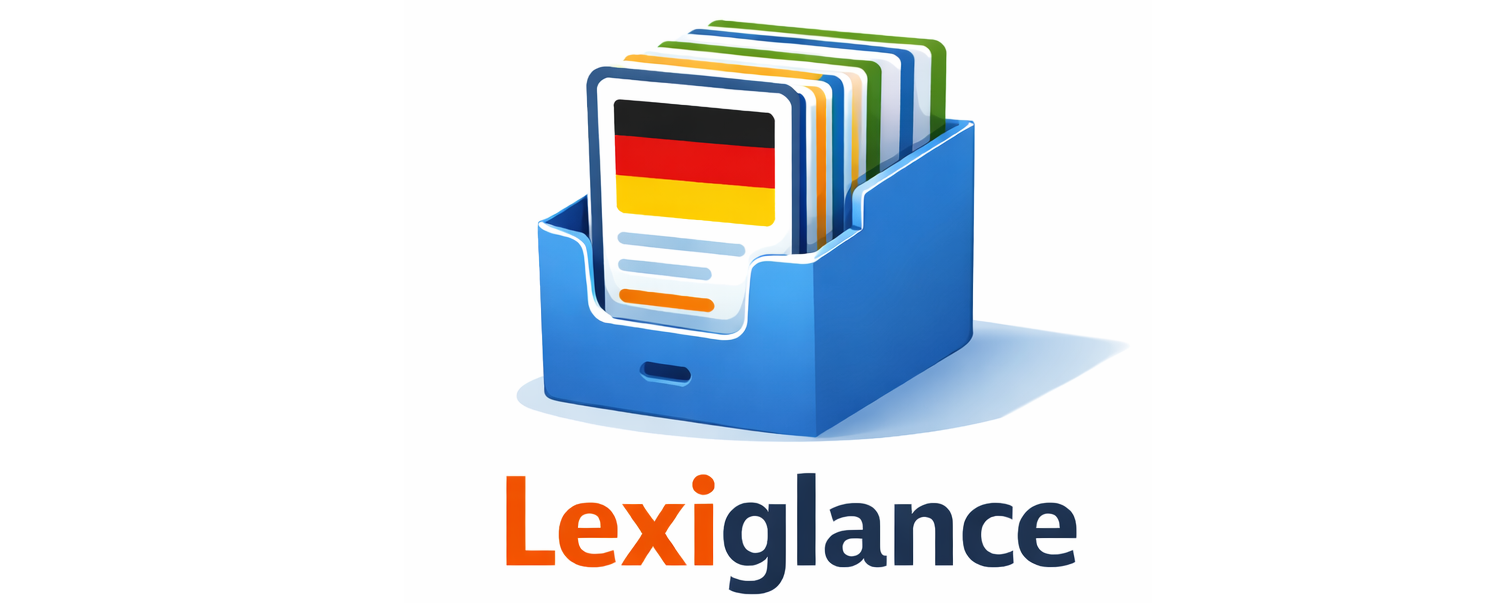
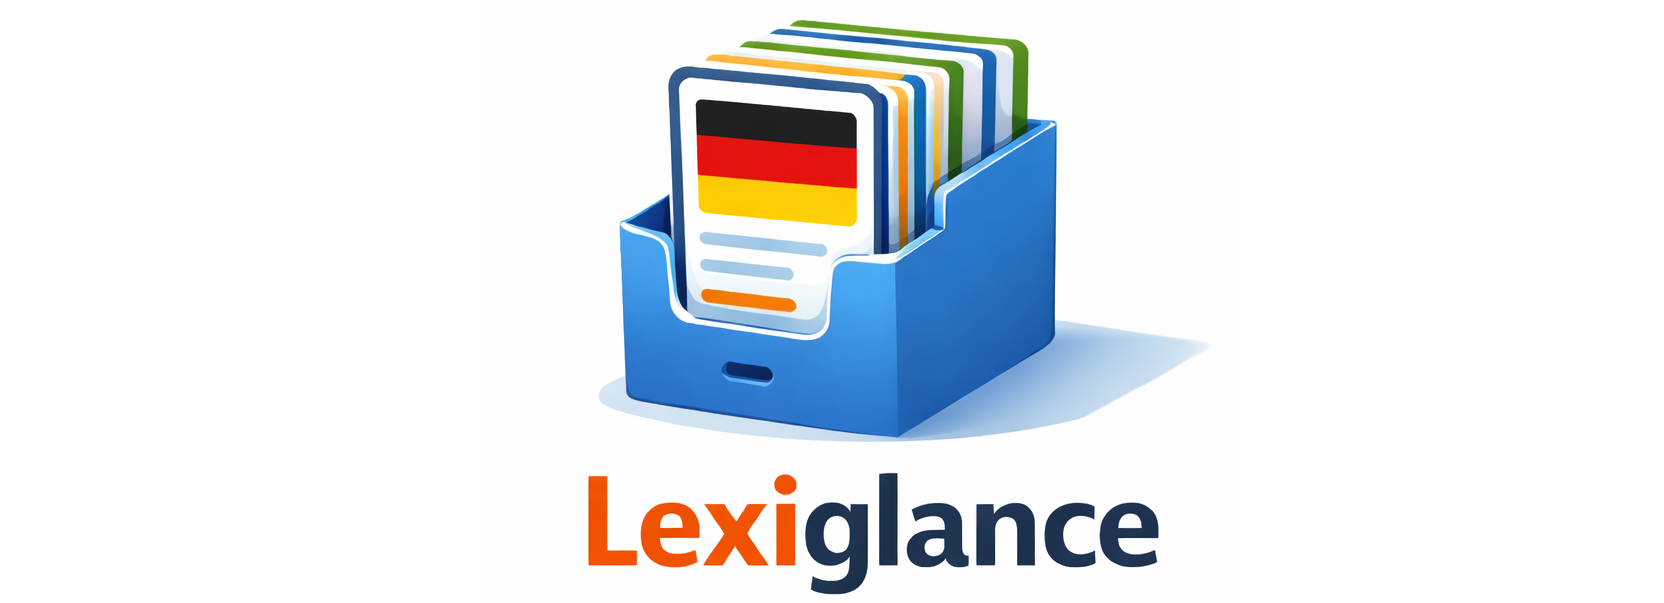
readme update

diff --git a/README.md b/README.md
@@ -2,7 +2,7 @@
   <img
     src="assets/lexiglance_banner.png"
     alt="Lexiglance"
-    width="720"
+    width="900"
   />
 </p>
 
